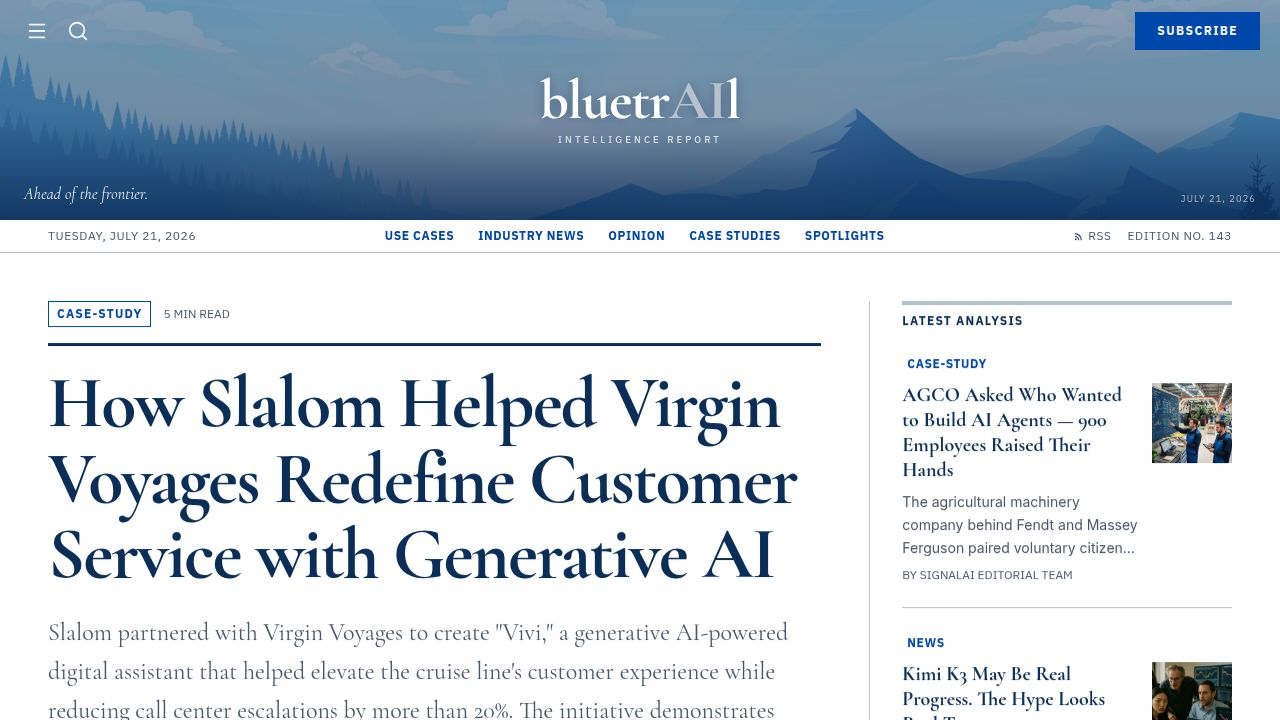
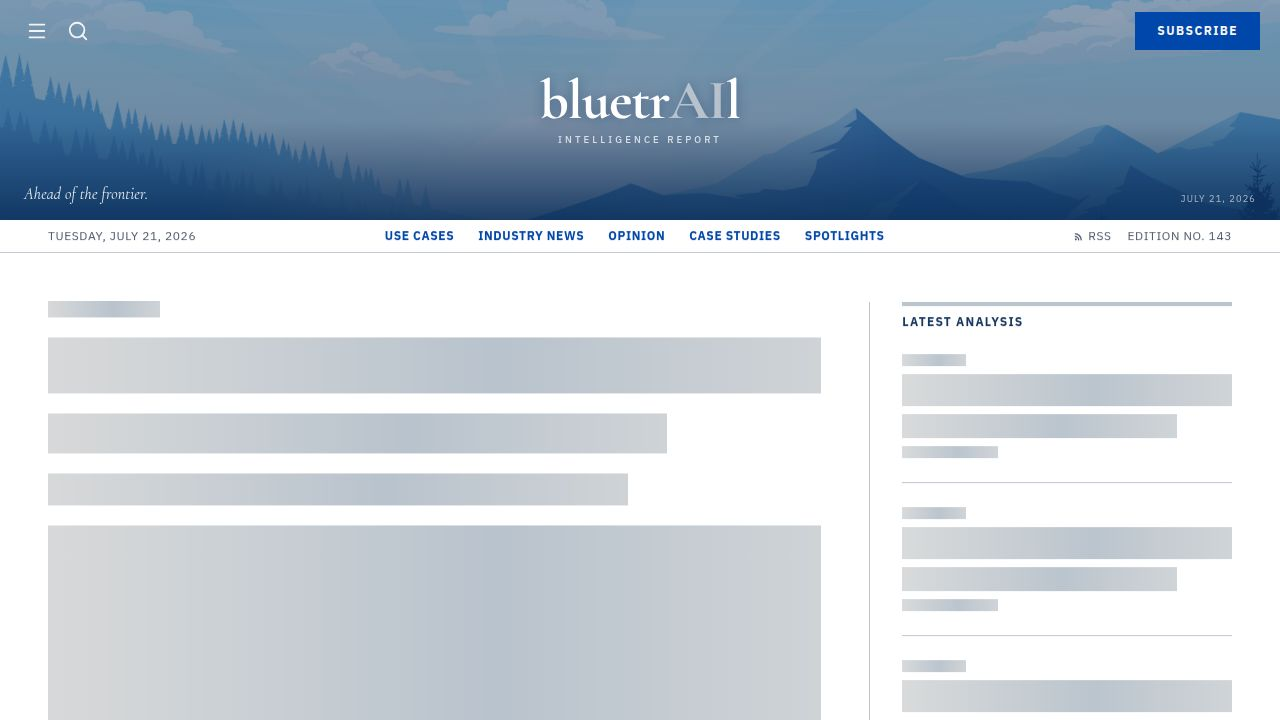
Add E2E tests for spotlight detail page company metadata block completeness
Task: Prevent a missing company logo from breaking the spotlight detail page layout

The existing spotlight-logos.spec.ts already covered logo rendering (with/without
logo URL) and the industry label. It was missing automated checks for three areas
called out in the task:

1. Company website link — verify it is a visible <a> anchor pointing to the
   correct href, opening in a new tab (target="_blank", rel="noopener noreferrer").

2. Company blurb paragraph — verify the blurb text is rendered beneath the
   company name inside the metadata block.

3. Desktop and mobile viewport coverage — verify the full metadata block
   (name, industry, website link, blurb, logo container) remains visible and
   correctly sized at 1280×720 (desktop) and 390×844 (mobile).

All four new tests are added inside the existing
"Spotlight article page — company logo block" describe block in
e2e/spotlight-logos.spec.ts. They follow the same mock-API pattern already used
by the file (mockSpotlightDetail intercepts /api/spotlights/:slug) so they are
fast and independent of the seeded development database.

E2E run confirmed all scenarios pass: website link attributes correct, blurb
visible, metadata block intact at both viewport sizes, logo container 96×96 px
at mobile.

No production code was changed. No deviations from the task scope.

Replit-Task-Id: a3959460-7fb4-4a7d-850a-6d4b4d245fea

diff --git a/e2e/spotlight-logos.spec.ts b/e2e/spotlight-logos.spec.ts
@@ -439,4 +439,129 @@ test.describe("Spotlight article page — company logo block", () => {
       companyBlock.getByText(MOCK_SPOTLIGHT_DETAIL.company.industry),
     ).toBeVisible();
   });
+
+  test("renders a valid website anchor link when the company has a website URL", async ({
+    page,
+  }) => {
+    const slug = MOCK_SPOTLIGHT_DETAIL.slug;
+    await mockSpotlightDetail(page, slug, MOCK_SPOTLIGHT_DETAIL);
+    await page.goto(`/spotlights/${slug}`);
+
+    await expect(page.locator("hr.hero-rule")).toBeVisible({ timeout: 15_000 });
+
+    const companyBlock = page
+      .locator(".bg-white.border.border-news")
+      .filter({ hasText: MOCK_SPOTLIGHT_DETAIL.company.name })
+      .first();
+
+    // Website link must be present and point to the correct URL.
+    const websiteLink = companyBlock.locator(
+      `a[href="${MOCK_SPOTLIGHT_DETAIL.company.website}"]`,
+    );
+    await expect(websiteLink).toBeVisible();
+    await expect(websiteLink).toHaveAttribute(
+      "href",
+      MOCK_SPOTLIGHT_DETAIL.company.website,
+    );
+
+    // Must open in a new tab.
+    await expect(websiteLink).toHaveAttribute("target", "_blank");
+    await expect(websiteLink).toHaveAttribute("rel", /noopener/);
+  });
+
+  test("shows the company blurb paragraph beneath the company name", async ({
+    page,
+  }) => {
+    const slug = MOCK_SPOTLIGHT_DETAIL.slug;
+    await mockSpotlightDetail(page, slug, MOCK_SPOTLIGHT_DETAIL);
+    await page.goto(`/spotlights/${slug}`);
+
+    await expect(page.locator("hr.hero-rule")).toBeVisible({ timeout: 15_000 });
+
+    const companyBlock = page
+      .locator(".bg-white.border.border-news")
+      .filter({ hasText: MOCK_SPOTLIGHT_DETAIL.company.name })
+      .first();
+
+    // Blurb paragraph must contain the expected text.
+    const blurb = companyBlock.locator("p").filter({
+      hasText: MOCK_SPOTLIGHT_DETAIL.company.blurb,
+    });
+    await expect(blurb).toBeVisible();
+    await expect(blurb).toContainText(MOCK_SPOTLIGHT_DETAIL.company.blurb);
+  });
+
+  test("company metadata block is fully visible at desktop viewport (1280×720)", async ({
+    page,
+  }) => {
+    await page.setViewportSize({ width: 1280, height: 720 });
+
+    const slug = MOCK_SPOTLIGHT_DETAIL.slug;
+    await mockSpotlightDetail(page, slug, MOCK_SPOTLIGHT_DETAIL);
+    await page.goto(`/spotlights/${slug}`);
+
+    await expect(page.locator("hr.hero-rule")).toBeVisible({ timeout: 15_000 });
+
+    const companyBlock = page
+      .locator(".bg-white.border.border-news")
+      .filter({ hasText: MOCK_SPOTLIGHT_DETAIL.company.name })
+      .first();
+
+    await expect(companyBlock).toBeVisible();
+
+    // All key elements must be visible at desktop width.
+    await expect(
+      companyBlock.getByRole("heading", { name: MOCK_SPOTLIGHT_DETAIL.company.name }),
+    ).toBeVisible();
+    await expect(
+      companyBlock.getByText(MOCK_SPOTLIGHT_DETAIL.company.industry),
+    ).toBeVisible();
+    await expect(
+      companyBlock.locator(`a[href="${MOCK_SPOTLIGHT_DETAIL.company.website}"]`),
+    ).toBeVisible();
+    await expect(
+      companyBlock.locator("p").filter({ hasText: MOCK_SPOTLIGHT_DETAIL.company.blurb }),
+    ).toBeVisible();
+  });
+
+  test("company metadata block is fully visible at mobile viewport (390×844)", async ({
+    page,
+  }) => {
+    await page.setViewportSize({ width: 390, height: 844 });
+
+    const slug = MOCK_SPOTLIGHT_DETAIL.slug;
+    await mockSpotlightDetail(page, slug, MOCK_SPOTLIGHT_DETAIL);
+    await page.goto(`/spotlights/${slug}`);
+
+    await expect(page.locator("hr.hero-rule")).toBeVisible({ timeout: 15_000 });
+
+    const companyBlock = page
+      .locator(".bg-white.border.border-news")
+      .filter({ hasText: MOCK_SPOTLIGHT_DETAIL.company.name })
+      .first();
+
+    await expect(companyBlock).toBeVisible();
+
+    // All key elements must be visible at mobile width (stacked layout).
+    await expect(
+      companyBlock.getByRole("heading", { name: MOCK_SPOTLIGHT_DETAIL.company.name }),
+    ).toBeVisible();
+    await expect(
+      companyBlock.getByText(MOCK_SPOTLIGHT_DETAIL.company.industry),
+    ).toBeVisible();
+    await expect(
+      companyBlock.locator(`a[href="${MOCK_SPOTLIGHT_DETAIL.company.website}"]`),
+    ).toBeVisible();
+    await expect(
+      companyBlock.locator("p").filter({ hasText: MOCK_SPOTLIGHT_DETAIL.company.blurb }),
+    ).toBeVisible();
+
+    // Logo container must still render at 96 × 96 px.
+    const logoContainer = companyBlock.locator(".w-24.h-24").first();
+    await expect(logoContainer).toBeVisible();
+    const box = await logoContainer.boundingBox();
+    expect(box).not.toBeNull();
+    expect(box!.width).toBeCloseTo(96, 0);
+    expect(box!.height).toBeCloseTo(96, 0);
+  });
 });